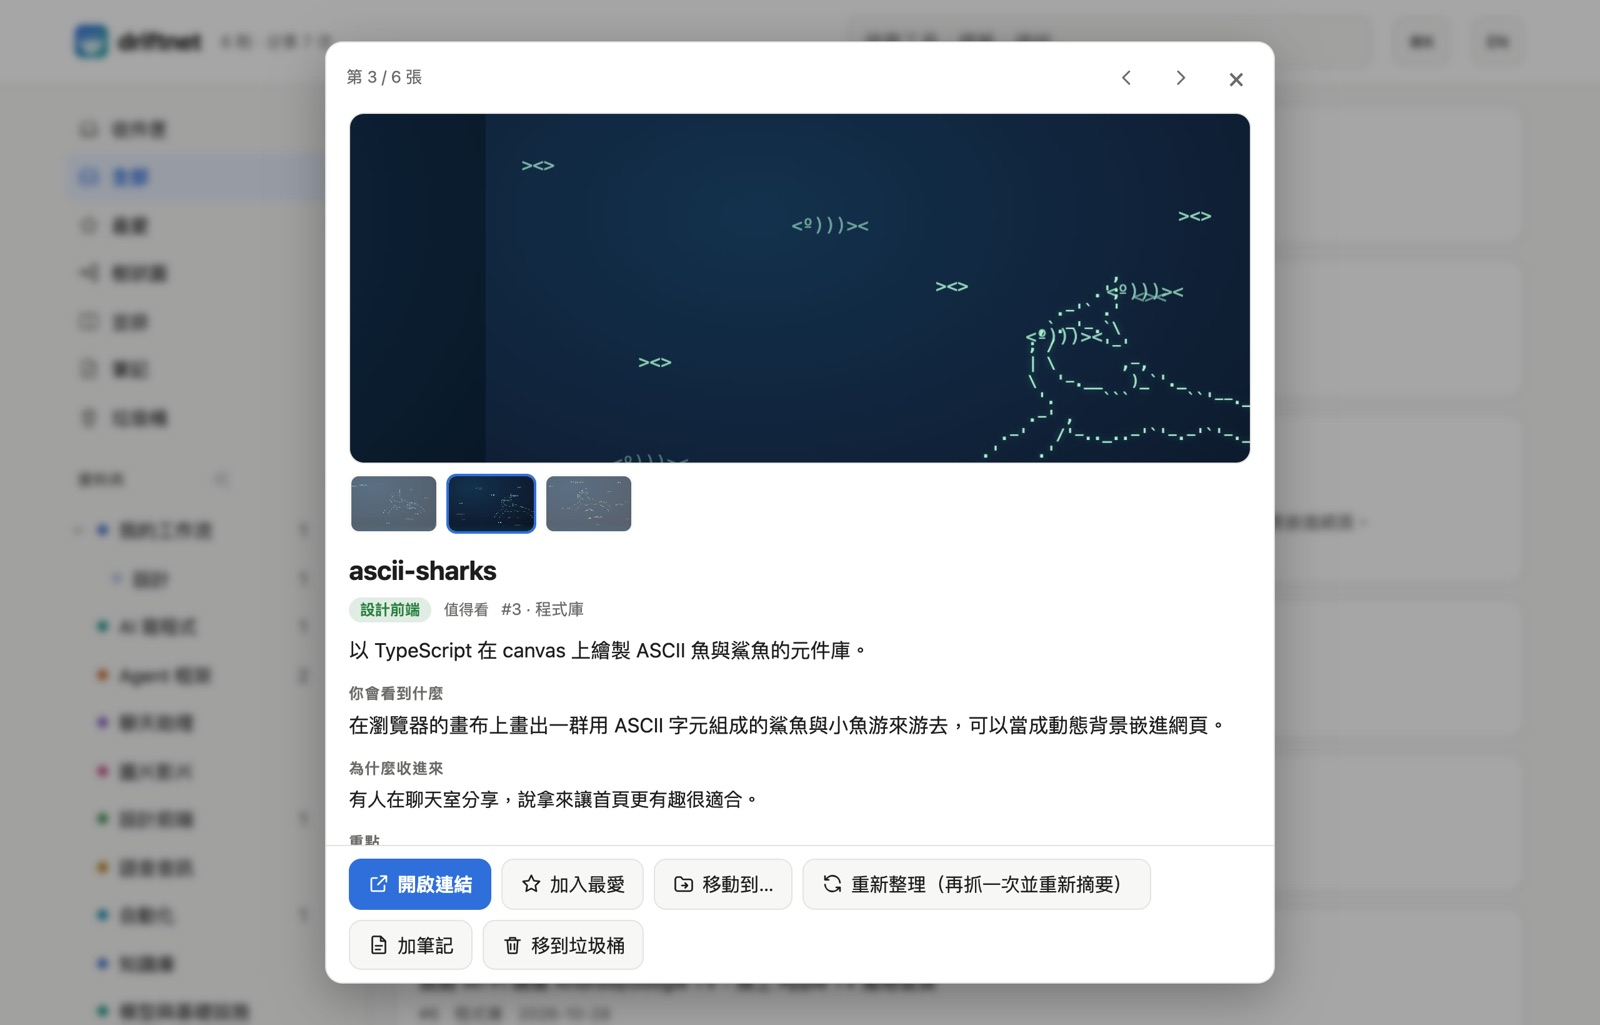
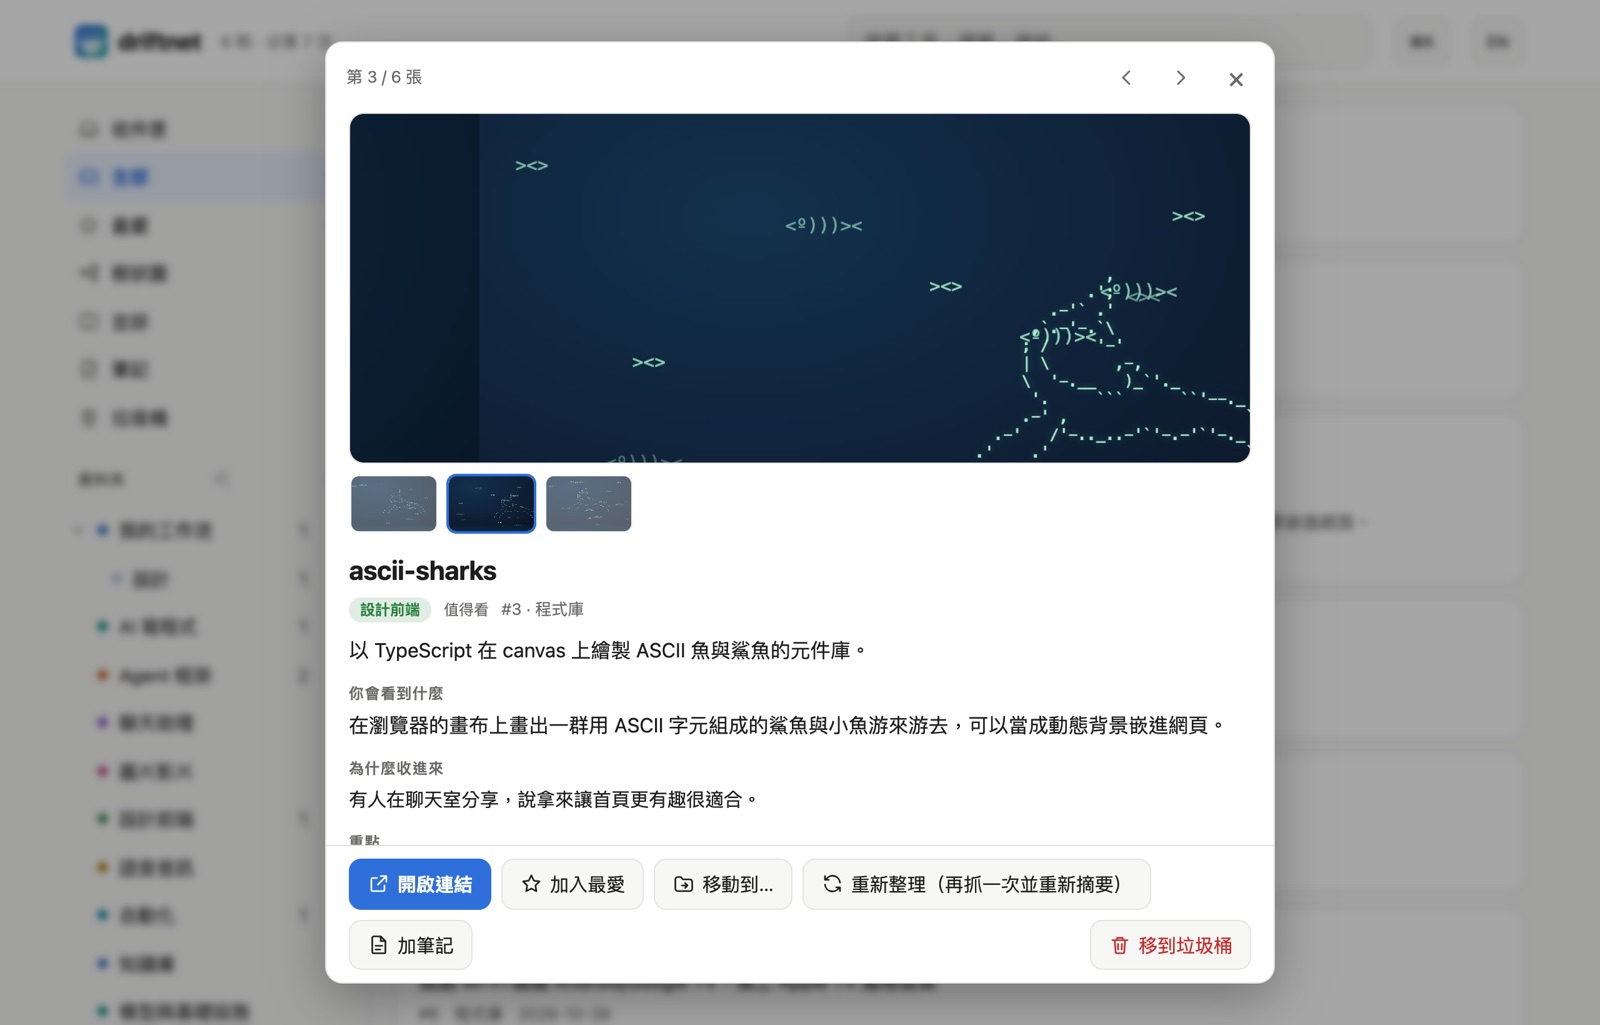
[IMP] Second Gemini audit: cache bookkeeping, modal trash on the far end, +N on thumbnails, map tip layout, grouped core features
- media cache keeps a running total instead of rescanning the folder on every new picture
- verified and rejected: IPv4-mapped IPv6 in hex is already refused; the Docker image sets DRIFTNET_HOME=/data

diff --git a/apps/server/public/index.html b/apps/server/public/index.html
@@ -172,7 +172,8 @@
   .map-crumb [aria-current] { font-weight: 600; padding: 6px 4px; }
   .map-crumb .sep { color: var(--muted); }
   .mnode:focus-visible { outline: 2px solid var(--accent, currentColor); outline-offset: 2px; }
-  .map-tip { display: flex; gap: 8px; align-items: baseline; flex-wrap: wrap; }
+  .map-tip { display: flex; gap: 16px; align-items: flex-start; justify-content: space-between; }
+  .map-tip > button { flex: none; }
   .map-wrap { position: relative; overflow: auto; height: 70vh; min-height: 320px; border: 1px solid var(--line);
               border-radius: 16px; background: var(--panel); box-shadow: var(--shadow); touch-action: pan-x pan-y pinch-zoom; overscroll-behavior: contain;
               background-image: radial-gradient(color-mix(in srgb, var(--muted) 18%, transparent) 1px, transparent 1px); background-size: 22px 22px; }
@@ -478,6 +479,7 @@
   .crow { display: flex; gap: 14px; align-items: flex-start; }
   .cbody { flex: 1; min-width: 0; }
   .thumb { position: relative; flex: 0 0 132px; height: 88px; border-radius: 10px; overflow: hidden; background: var(--bg); border: 1px solid var(--line); }
+  .thumb .more-pics { position: absolute; right: 6px; bottom: 6px; padding: 1px 7px; border-radius: 999px; background: rgb(0 0 0 / .62); color: #fff; font-size: 12px; font-weight: 600; }
   .thumb img { width: 100%; height: 100%; object-fit: cover; display: block; }
   .thumb .play, .g-slide .play { position: absolute; inset: 0; margin: auto; width: 34px; height: 34px; border-radius: 50%; display: grid; place-items: center;
     background: rgba(0,0,0,.6); color: #fff; font-size: 14px; pointer-events: none; }
@@ -510,6 +512,7 @@
   .md-tags { display: flex; flex-wrap: wrap; gap: 4px 8px; font-size: 13px; color: var(--muted); }
   .md-fine { color: var(--muted); font-size: 12px; display: flex; flex-wrap: wrap; gap: 4px 12px; margin-top: 12px; }
   .md-actions { flex: none; margin: 0; padding: 10px 18px calc(10px + env(safe-area-inset-bottom)); border-top: 1px solid var(--line); background: var(--panel); flex-wrap: wrap; }
+  .md-actions .spacer { flex: 1; }
   .md-actions .btn { display: inline-flex; align-items: center; gap: 6px; text-decoration: none; }
   .md-actions .btn.on { border-color: var(--star); color: var(--star); }
   .gallery { margin: 4px 0 0; }
@@ -1856,7 +1859,7 @@
           : `<button type="button" data-map="focus" data-id="${esc(id)}">${esc(catLabel(id))}</button>`)).join("") + `</nav>`;
     })() : "";
     const allOpen = mapOpen.size > 0 || !!state.q;
-    const tip = store.get("driftnet-map-tip") ? "" : `<p class="hint map-tip">${esc(t.mapHint)} ${esc(t.mapHintFocus)} <button class="link-btn" type="button" data-map="tip">${esc(t.gotIt)}</button></p>`;
+    const tip = store.get("driftnet-map-tip") ? "" : `<p class="hint map-tip"><span>${esc(t.mapHint)} ${esc(t.mapHintFocus)}</span><button class="link-btn" type="button" data-map="tip">${esc(t.gotIt)}</button></p>`;
     $("list").innerHTML = `<div class="map-bar">
         <button class="btn" type="button" data-map="${allOpen ? "collapse" : "expand"}">${ic(allOpen ? "collapse" : "expand")} ${esc(allOpen ? t.collapseAll : t.expandAll)}</button>
         <button class="btn" type="button" data-map="new">${ic("plus")} ${esc(t.newFolder)}</button>
@@ -2368,7 +2371,7 @@
       (admin ? (inTrash ? btn("restore", "undo", t.restore)
         : btn("favorite", "star", i.favorite ? t.unfavorite : t.favorite, i.favorite ? "on" : "") + btn("move", "move", t.moveTo) +
           `<button class="btn ${busy ? "spin" : ""}" type="button" data-md="refresh" ${busy ? "disabled" : ""}>${ic("refresh")} ${esc(t.refresh)}</button>` +
-          btn("note", "note", i.note ? t.editNote : t.addNote) + btn("trash", "trash", t.remove)) : "") +
+          btn("note", "note", i.note ? t.editNote : t.addNote) + `<span class="spacer"></span>` + btn("trash", "trash", t.remove, "danger")) : "") +
       (modalFrom === "map" ? btn("list", "list", t.showInList) : "");
   }
   function openModal(id, from = "list") {
@@ -2977,12 +2980,12 @@
   }
   /** The list thumbnail: the first picture, cropped; a card with none (or a broken one) simply has no box. */
   function thumbHtml(i) {
-    const m = mediaOf(i)[0];
+    const all = mediaOf(i), m = all[0];
     if (!m) return "";
     const gif = m.kind === "gif";
     return `<div class="thumb">
       <img src="${esc(m.src)}" alt="${esc(m.alt || i.summary?.name || i.title)}" referrerpolicy="no-referrer" loading="lazy" decoding="async" draggable="false" data-media ${gif ? "data-gif" : ""}>
-      ${m.kind === "video" ? `<span class="play" aria-hidden="true">▶</span>` : ""}</div>`;
+      ${m.kind === "video" ? `<span class="play" aria-hidden="true">▶</span>` : ""}${all.length > 1 ? `<span class="more-pics">+${all.length - 1}</span>` : ""}</div>`;
   }
 
   /** Inbox: one-tap chips for the card's suggested folders (keys 1–3), and "other folder…" (m). */

diff --git a/apps/server/src/media.ts b/apps/server/src/media.ts
@@ -99,23 +99,32 @@ async function fetchImage(url: string): Promise<MediaFile> {
   return { bytes, type: real };
 }
 
-/** Write atomically, then drop the oldest files until the folder fits the cap. */
+/** Bytes in each cache folder: counted once from disk, then kept up to date, so a new picture doesn't rescan the folder. */
+const cacheTotals = new Map<string, number>();
+
+/** Write atomically, then (only once over the cap) drop the oldest files until the folder fits. */
 function store(dir: string, file: string, bytes: Buffer, cap: number): void {
   try {
     mkdirSync(dir, { recursive: true });
     const tmp = `${file}.${process.pid}.tmp`;
     writeFileSync(tmp, bytes);
     renameSync(tmp, file);
-    const files = readdirSync(dir).filter((f) => !f.endsWith(".tmp")).map((f) => ({ f, ...pick(statSync(join(dir, f))) }));
-    let total = files.reduce((n, x) => n + x.size, 0);
-    for (const x of files.sort((a, b) => a.mtime - b.mtime)) {
-      if (total <= cap) break;
-      if (join(dir, x.f) === file) continue;
-      try { unlinkSync(join(dir, x.f)); total -= x.size; } catch { /* already gone */ }
+    const known = cacheTotals.get(dir);
+    let total = known === undefined ? scan(dir).reduce((n, x) => n + x.size, 0) : known + bytes.length;
+    if (total > cap) {
+      const files = scan(dir);
+      total = files.reduce((n, x) => n + x.size, 0);
+      for (const x of files.sort((a, b) => a.mtime - b.mtime)) {
+        if (total <= cap) break;
+        if (join(dir, x.f) === file) continue;
+        try { unlinkSync(join(dir, x.f)); total -= x.size; } catch { /* already gone */ }
+      }
     }
+    cacheTotals.set(dir, total);
   } catch (err) {
     console.warn(`[driftnet] media cache: ${(err as Error).message}`); // serving still works without the cache
   }
 }
 
 const pick = (s: { size: number; mtimeMs: number }) => ({ size: s.size, mtime: s.mtimeMs });
+const scan = (dir: string) => readdirSync(dir).filter((f) => !f.endsWith(".tmp")).map((f) => ({ f, ...pick(statSync(join(dir, f))) }));

diff --git a/README.zh-TW.md b/README.zh-TW.md
@@ -54,20 +54,28 @@ bot ▸ 📌 本週 AI 大事彙整（3/11）｜新聞動態 ＋ Paperclip、Rea
 
 ## ✨ 核心功能
 
+### 接住連結
+
 - 🎯 **追到真正的工具。** 貼文附了 repo，就收錄 repo；貼文只提到專案名稱，就到 GitHub 用名稱完全比對。模型編出來的連結一律丟掉。
 - 💬 **看得懂「連結在留言」。** [Chrome 擴充](#chrome-擴充)會打開留言找；一篇週報整理文，會拆成每個專案各一筆。
 - 📥 **很多種丟法。** Chrome 按鈕、Discord、Telegram、Slack 或 LINE 機器人、你的 agent，或一個 HTTP 請求（見[接法](#接法)）。
+
+### 看懂、整理
+
 - 🖼 **一眼看懂的卡片。** 圖片、一句話的答案、你會看到什麼、為什麼會在這裡。
 - 🗂 **資料夾就是分類。** AI 照每個資料夾的路徑和說明分新連結，建議放在收件匣等你確認。
 - 🧠 **樹狀圖和並排檢視。** 把卡片拖到資料夾；✨ AI 整理建議會提一份方案，你套用之前什麼都不會動（見[網頁](#網頁)）。
 - 📱 **可以搜尋的網頁，手機也能用。** 筆記、復原和垃圾桶、鍵盤快捷鍵、唯讀分享連結。
+- 🚫 **不是稍後閱讀 App。** Pocket、Raindrop 存的是你給它的那個連結；driftnet 會順著貼文追到它在講的工具，只留一份簡短大綱而不是整頁內容，你的 agent 還能透過 MCP 讀寫同一份清單。
+
+### 便宜、安全、資料是你的
+
 - 💸 **幾乎不花錢。** 重複的連結不再處理；頁面先整理成約 350 token 的大綱才給模型看。實測 5 個 FB reels，判斷全部只花 $0.00029。
 - ⚖ **選用的判斷器。** [Jev](https://console.typesafe.ai)（需要 TypeSafe 金鑰）用約 100ms 決定哪些值得摘要。沒有 Jev 時，由你選的模型逐筆分類。
 - 🗳 **學會排除垃圾。** 按 👎，發布者的信譽就下降；一直被倒讚的來源之後就不再花錢處理。
 - 🛡 **預設就安全。** 拒絕指向私有或本機位址的連結，提示詞注入永遠不會傳給 agent。
 - 🤖 **agent 也能用。** MCP、`/openapi.json`、`/llms.txt`、`/feed.xml` 和對外 Webhook；也可以讓它們自己來讀（見 [Agent](#agent)）。
 - 🧩 **模型任選或不接，資料屬於你。** API、你的 Claude 或 Google 訂閱、Ollama，或完全不接（連結就全部放在「other」，不分類）。資料存在本機 SQLite；介面、回覆和摘要都支援英文與繁體中文。
-- 🚫 **不是稍後閱讀 App。** Pocket、Raindrop 存的是你給它的那個連結；driftnet 會順著貼文追到它在講的工具，只留一份簡短大綱而不是整頁內容，你的 agent 還能透過 MCP 讀寫同一份清單。
 
 ## 🚀 開始使用
 

diff --git a/README.md b/README.md
@@ -57,20 +57,28 @@ bot ▸ 📌 This week in AI (3/11)｜News ＋ Paperclip, RealWonder
 
 ## ✨ Core features
 
+### Catch the link
+
 - 🎯 **Finds the actual tool.** A post linking a repo becomes the repo; a post that only *names* projects gets them looked up on GitHub by exact name. Links a model makes up are thrown away.
 - 💬 **Reads "link in the comments".** The [Chrome extension](#chrome-extension) opens the comments; a weekly roundup becomes one item per project.
 - 📥 **Many ways in.** A Chrome button, Discord, Telegram, Slack or LINE bots, your agent, or one HTTP call ([Ways in](#ways-in)).
+
+### Understand and sort it
+
 - 🖼 **Cards you can read at a glance.** Pictures, a one-line answer, what you'll see, why it's here.
 - 🗂 **Your folders are the categories.** The AI files new links by each folder's path and description; its suggestions wait in the Inbox.
 - 🧠 **Mind map and split view.** Drag cards onto folders; ✨ AI tidy-up proposes a plan that changes nothing until you apply it ([the web page](#the-web-page)).
 - 📱 **A page you can search, on a phone too.** Notes, undo and trash, keyboard shortcuts, read-only share links.
+- 🚫 **Not a read-later app.** Pocket and Raindrop keep the link you gave them. driftnet follows the post to the tool it is about, keeps a short outline instead of the whole page, and lets your agents read and write the same catalogue over MCP.
+
+### Cheap, safe and yours
+
 - 💸 **Spends almost nothing.** Repeat links are free and pages are cut to an outline of about 350 tokens before any model sees them. Five real Facebook reels were judged for $0.00029 in total.
 - ⚖ **Optional judge.** [Jev](https://console.typesafe.ai) (needs a TypeSafe key) decides in ~100 ms what is worth summarising. Without it, your model sorts each link.
 - 🗳 **Learns what to ignore.** 👎 a result and its publisher loses reputation; sources that keep getting voted down stop costing anything.
 - 🛡 **Safe by default.** Private and local addresses are refused, and prompt injection is never passed on to agents.
 - 🤖 **Agents use it too.** MCP, `/openapi.json`, `/llms.txt`, `/feed.xml` and an outgoing webhook; or let them do the reading ([Agents](#agents)).
 - 🧩 **Any model or none, and it stays yours.** An API, your Claude or Google subscription, Ollama, or no model (links are then listed unsorted under "other"). Local SQLite; English and Traditional Chinese throughout.
-- 🚫 **Not a read-later app.** Pocket and Raindrop keep the link you gave them. driftnet follows the post to the tool it is about, keeps a short outline instead of the whole page, and lets your agents read and write the same catalogue over MCP.
 
 ## 🚀 Quick start
 
